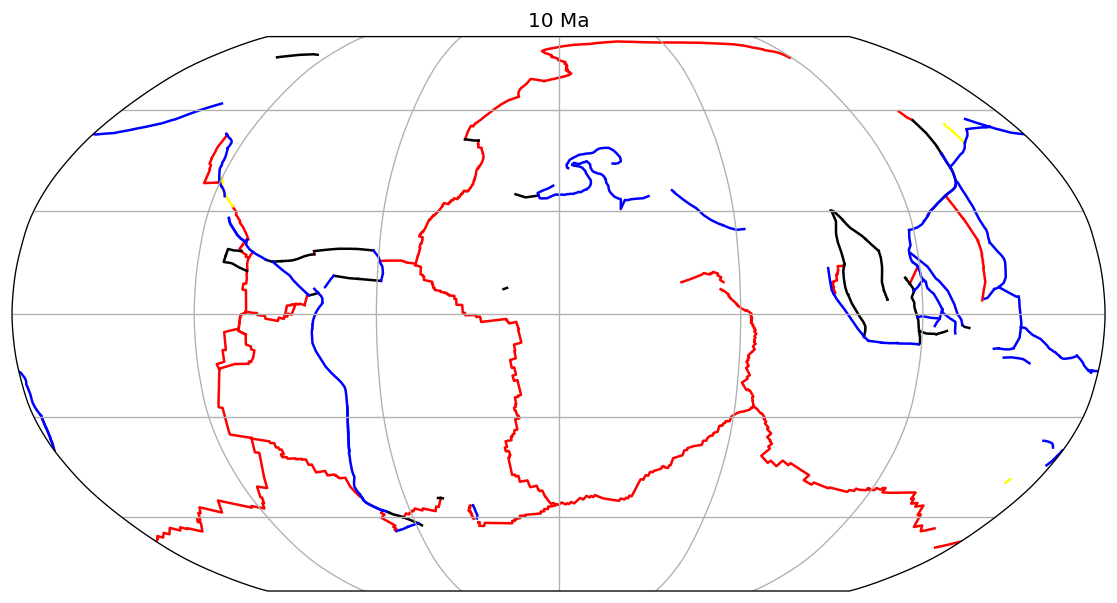
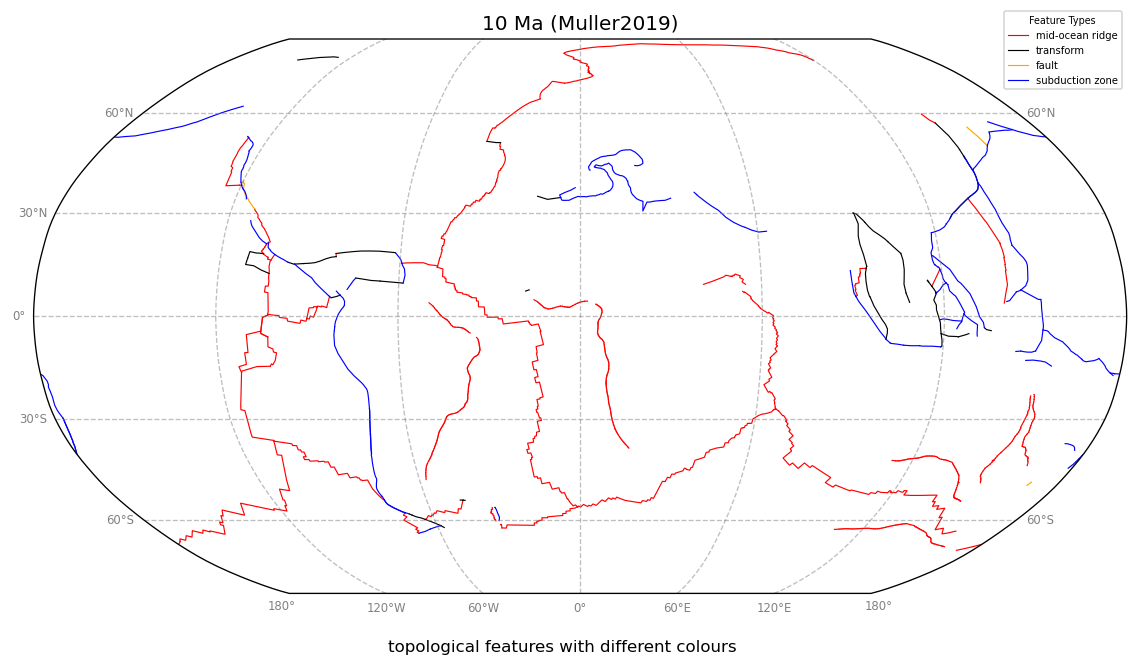
update examples

diff --git a/examples/plot_topological_features.py b/examples/plot_topological_features.py
@@ -16,13 +16,25 @@ Path(OUTPUT_DIR).mkdir(parents=True, exist_ok=True)
 # micromamba run -n gplates-ws-example ./plot_topological_features.py
 
 
-def plot_lines(ax, lines, color="blue"):
+def plot_lines(ax, lines, color="blue", label=""):
     for line in lines:
         if isinstance(line, MultiLineString):
             for g in line.geoms:
-                ax.plot(*g.xy, transform=ccrs.PlateCarree(), color=color)
+                ax.plot(
+                    *g.xy,
+                    transform=ccrs.PlateCarree(),
+                    color=color,
+                    label=label,
+                    linewidth=0.7,
+                )
         else:
-            ax.plot(*line.xy, transform=ccrs.PlateCarree(), color=color)
+            ax.plot(
+                *line.xy,
+                transform=ccrs.PlateCarree(),
+                color=color,
+                label=label,
+                linewidth=0.7,
+            )
 
 
 def main(show=True):
@@ -30,7 +42,7 @@ def main(show=True):
     time = 10
     topology_10 = model.get_topology(time)
 
-    mid_ccean_ridge = topology_10.get_features("MidOceanRidge", return_format="shapely")
+    mid_ocean_ridge = topology_10.get_features("MidOceanRidge", return_format="shapely")
     transform = topology_10.get_features("Transform", return_format="shapely")
     fault = topology_10.get_features("Fault", return_format="shapely")
     subduction = topology_10.get_features("SubductionZone", return_format="shapely")
@@ -39,14 +51,45 @@ def main(show=True):
     ax = plt.axes(projection=ccrs.Robinson())
 
     ax.set_global()
-    ax.gridlines()
+    gl = ax.gridlines(
+        crs=ccrs.PlateCarree(),
+        draw_labels=True,
+        color="grey",
+        alpha=0.5,
+        linestyle="--",
+    )
+    gl.top_labels = False
+    gl.right_labels = False
+    gl.xlabel_style = {"size": 7, "color": "gray"}
+    gl.ylabel_style = {"size": 7, "color": "gray"}
 
-    plot_lines(ax, mid_ccean_ridge, color="red")
-    plot_lines(ax, transform, color="black")
-    plot_lines(ax, fault, color="yellow")
-    plot_lines(ax, subduction)
+    plot_lines(ax, mid_ocean_ridge, color="red", label="mid-ocean ridge")
+    plot_lines(ax, transform, color="black", label="transform")
+    plot_lines(ax, fault, color="orange", label="fault")
+    plot_lines(ax, subduction, label="subduction zone")
 
-    plt.title(f"{time} Ma")
+    # plot the legend
+    handles, labels = ax.get_legend_handles_labels()
+    unique = [
+        (h, l) for i, (h, l) in enumerate(zip(handles, labels)) if l not in labels[:i]
+    ]
+    legend = plt.legend(
+        *zip(*unique),
+        title="Feature Types",
+        prop={"size": 6},
+        loc="lower right",
+        bbox_to_anchor=(1.0, 0.9),
+    )
+    plt.setp(legend.get_title(), fontsize="xx-small")
+
+    plt.title(f"{time} Ma (Muller2019)")
+
+    fig.text(
+        0.5,
+        0.03,
+        "topological features with different colours",
+        ha="center",
+    )
     if show:
         plt.show()
     else:

diff --git a/examples/plot_topological_plate_boundaries.py b/examples/plot_topological_plate_boundaries.py
@@ -4,7 +4,8 @@ from pathlib import Path
 
 import cartopy.crs as ccrs
 import matplotlib.pyplot as plt
-from shapely.geometry import MultiLineString
+import numpy as np
+from shapely.geometry import MultiLineString, MultiPolygon, Polygon, shape
 
 from gwspy import PlateModel
 
@@ -21,21 +22,77 @@ def main(show=True):
     time = 10
     topology_10 = model.get_topology(time)
 
-    polylines = topology_10.get_plate_boundaries(return_format="shapely")
+    _lines = topology_10.get_plate_boundaries()
+    colors = []
+    feature_types = []
+    polylines = []
+    color_map = {}
+    for feature in _lines["features"]:
+        s = shape(feature["geometry"])
+        polylines.append(s)
+        f_type = feature["properties"]["type"]
+        feature_types.append(f_type)
+        if f_type not in color_map:
+            cc = list(np.random.choice(range(256), size=3) / 256)
+            color_map[f_type] = cc
+        else:
+            cc = color_map[f_type]
+        colors.append(cc)
+        # if f_type == "gpml:TopologicalNetwork":
+        #    colors.append("green")
+
+    print(set(feature_types))
 
     fig = plt.figure(figsize=(12, 6), dpi=120)
     ax = plt.axes(projection=ccrs.Robinson())
 
     ax.set_global()
-    ax.gridlines()
+    gl = ax.gridlines(
+        crs=ccrs.PlateCarree(),
+        draw_labels=True,
+        color="grey",
+        alpha=0.5,
+        linestyle="--",
+    )
+    gl.top_labels = False
+    gl.right_labels = False
+    gl.xlabel_style = {"size": 7, "color": "gray"}
+    gl.ylabel_style = {"size": 7, "color": "gray"}
 
-    for line in polylines:
+    # plot the lines
+    for line, c, t in zip(polylines, colors, feature_types):
         if isinstance(line, MultiLineString):
             for g in line.geoms:
-                ax.plot(*g.xy, transform=ccrs.PlateCarree(), color="blue")
+                ax.plot(
+                    *g.xy, transform=ccrs.PlateCarree(), color=c, label=t, linewidth=0.7
+                )
         else:
-            ax.plot(*line.xy, transform=ccrs.PlateCarree(), color="blue")
-    plt.title(f"{time} Ma")
+            ax.plot(
+                *line.xy, transform=ccrs.PlateCarree(), color=c, label=t, linewidth=0.7
+            )
+    # plot the legend
+    handles, labels = ax.get_legend_handles_labels()
+    unique = [
+        (h, l) for i, (h, l) in enumerate(zip(handles, labels)) if l not in labels[:i]
+    ]
+    legend = plt.legend(
+        *zip(*unique),
+        title="Feature Types",
+        prop={"size": 6},
+        loc="lower right",
+        bbox_to_anchor=(1.14, 0.6),
+    )
+    plt.setp(legend.get_title(), fontsize="xx-small")
+
+    plt.title(f"{time} Ma (Muller2019)")
+
+    fig.text(
+        0.5,
+        0.03,
+        "topological plate boundaries with random colours for each feature type",
+        ha="center",
+    )
+
     if show:
         plt.show()
     else:

diff --git a/examples/plot_subduction_zones.py b/examples/plot_subduction_zones.py
@@ -30,14 +30,20 @@ def plot_teeth(ax, lons, lats, polarity):
         x = [t["lon"] for t in tooth]
         y = [t["lat"] for t in tooth]
         # print(x)
-        ax.fill(x, y, transform=ccrs.PlateCarree())
+        ax.fill(
+            x,
+            y,
+            facecolor="blue",
+            edgecolor="blue",
+            transform=ccrs.PlateCarree(),
+        )
 
 
 def main(show=True):
     time = 0
     model_name = "Merdith2021"
 
-    ax = get_basemap_with_coastlines(model=model_name, time=time)
+    fig, ax = get_basemap_with_coastlines(model=model_name, time=time)
 
     model = plate_model.PlateModel(model_name)
 
@@ -55,17 +61,24 @@ def main(show=True):
         if geom["type"] == "LineString":
             lats = [lon_lat[1] for lon_lat in geom["coordinates"]]
             lons = [lon_lat[0] for lon_lat in geom["coordinates"]]
-            ax.plot(lons, lats, transform=ccrs.PlateCarree())
+            ax.plot(lons, lats, transform=ccrs.PlateCarree(), color="blue")
             plot_teeth(ax, lons, lats, polarity)
 
         elif geom["type"] == "MultiLineString":
             for line in geom["coordinates"]:
                 lats = [lon_lat[1] for lon_lat in line]
                 lons = [lon_lat[0] for lon_lat in line]
-                ax.plot(lons, lats, transform=ccrs.PlateCarree())
+                ax.plot(lons, lats, transform=ccrs.PlateCarree(), color="blue")
                 plot_teeth(ax, lons, lats, polarity)
 
-    plt.title(f"{time} Ma", fontsize=20)
+    plt.title(f"{time} Ma (Merdith2021)")
+
+    fig.text(
+        0.5,
+        0.03,
+        "subduction zones with teeth",
+        ha="center",
+    )
 
     if show:
         plt.show()
@@ -82,7 +95,17 @@ def get_basemap_with_coastlines(model="Muller2019", crs=ccrs.Robinson(), time=14
     ax = plt.axes(projection=crs)
 
     ax.set_global()
-    ax.gridlines()
+    gl = ax.gridlines(
+        crs=ccrs.PlateCarree(),
+        draw_labels=True,
+        color="grey",
+        alpha=0.5,
+        linestyle="--",
+    )
+    gl.top_labels = False
+    gl.right_labels = False
+    gl.xlabel_style = {"size": 7, "color": "gray"}
+    gl.ylabel_style = {"size": 7, "color": "gray"}
 
     ax.add_geometries(
         coastlines_shapely,
@@ -91,7 +114,7 @@ def get_basemap_with_coastlines(model="Muller2019", crs=ccrs.Robinson(), time=14
         edgecolor="none",
         alpha=0.5,
     )
-    return ax
+    return fig, ax
 
 
 def save_fig(filename):

diff --git a/examples/plot_topological_plate_polygons.py b/examples/plot_topological_plate_polygons.py
@@ -64,7 +64,17 @@ def main(show=True):
     ax = plt.axes(projection=ccrs.Robinson())
 
     ax.set_global()
-    ax.gridlines()
+    gl = ax.gridlines(
+        crs=ccrs.PlateCarree(),
+        draw_labels=True,
+        color="grey",
+        alpha=0.5,
+        linestyle="--",
+    )
+    gl.top_labels = False
+    gl.right_labels = False
+    gl.xlabel_style = {"size": 7, "color": "gray"}
+    gl.ylabel_style = {"size": 7, "color": "gray"}
 
     # fill the polygons with grey
     ax.add_geometries(
@@ -100,7 +110,15 @@ def main(show=True):
         bbox_to_anchor=(1.1, 0.9),
     )
     plt.setp(legend.get_title(), fontsize="xx-small")
-    plt.title(f"{time} Ma")
+    plt.title(f"{time} Ma (Muller2019)")
+
+    fig.text(
+        0.5,
+        0.03,
+        "topological closed plate boundary and network",
+        ha="center",
+    )
+
     if show:
         plt.show()
     else:
